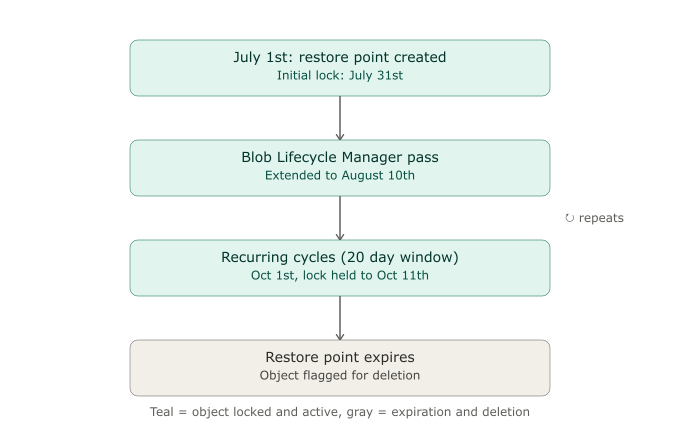
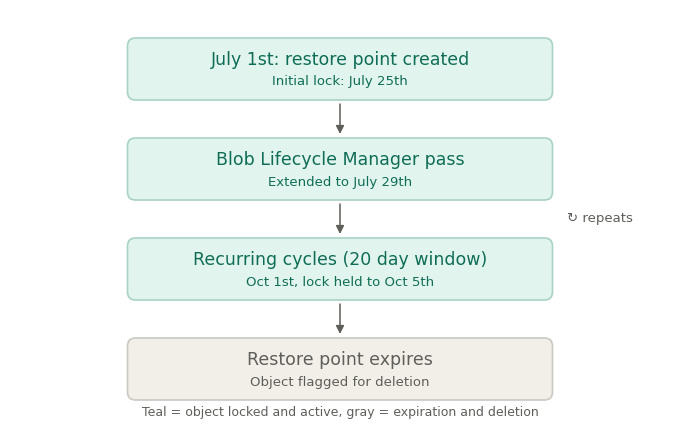
Clarify immutability article: profile-level protection period, 4 day example
Two customer feedback points on the retention vs. protection period post:

- The 10 day example made the initial lock 10 + 20 = 30 days, which reads
  like "one month" and suggests the lock is derived from the monthly
  retention tier. Switched the worked example to 4 days (24 day initial
  lock, matching no retention frequency) and added a note naming the trap.
  Regenerated the timeline diagram with the new dates.

- Readers could infer that the retention lock is set per restore point
  class. Added a "Where each setting lives" section with a policy vs.
  location profile table, a new FAQ on per-class protection periods, and
  reinforced throughout that the protection period is a single flat value
  on the profile.

diff --git a/_posts/2026-07-06-kasten-immutability-protection-period.md b/_posts/2026-07-06-kasten-immutability-protection-period.md
@@ -1,7 +1,7 @@
 ---
 layout: post
 title: "Understanding Kasten immutability: retention vs. protection period"
-description: "Two concepts people constantly conflate — the retention of a restore point and its immutability protection period — and how the Blob Lifecycle Manager keeps your backups locked for exactly as long as they need to be."
+description: "Two concepts people constantly conflate — the retention of a restore point, set in the policy, and the immutability protection period, set on the location profile — and how the Blob Lifecycle Manager keeps your backups locked for exactly as long as they need to be."
 date: 2026-07-06 09:00:00 +0200
 author: clarencepouthier-michaelcourcy
 image: '/images/posts/2026-07-06-kasten-immutability-protection-period/immutability.png'
@@ -17,13 +17,27 @@ When immutability comes up with a customer, one question always follows: *"how l
 
 It is worth being precise from the start, because these two settings look similar but answer completely different questions.
 
-- **Retention** is defined in your Kasten policy. It decides *how long a restore point stays alive* — how many daily, weekly, or monthly restore points Kasten keeps before letting them expire. This is a data-lifecycle decision: "I want 7 daily and 3 monthly restore points."
+- **Retention** is defined in your Kasten **policy**. It decides *how long a restore point stays alive* — how many daily, weekly, or monthly restore points Kasten keeps before letting them expire. This is a data-lifecycle decision: "I want 7 daily and 3 monthly restore points."
 
-- **Immutability (the protection period)** is a property enforced on the underlying storage through **S3 Object Lock** or **Azure Blob** immutability. It does not decide how long a restore point lives. It decides *how long the objects stay locked against deletion or tampering* — including how long you can still recover a restore point after it has been deleted locally and flagged as deleted on the object store.
+- **Immutability (the protection period)** is defined on the **location profile** — the object storage configuration — and enforced on the underlying storage through **S3 Object Lock** or **Azure Blob** immutability. It does not decide how long a restore point lives. It decides *how long the objects stay locked against deletion or tampering* — including how long you can still recover a restore point after it has been deleted locally and flagged as deleted on the object store.
 
 In other words: retention answers *"how far back can I restore?"*, while the protection period answers *"how long do I have to react if something goes wrong before my backups become exposed again?"*
 
 Kasten relies on the object-lock capability of the object storage (S3 Object Lock, Azure Blob immutability) to enforce this. As long as the lock is in place, nobody — not an attacker, not a compromised admin account, not Kasten itself — can delete or overwrite the object.
+
+## Where each setting lives — and why it matters
+
+This is the part that trips up most readers, so it is worth stating bluntly:
+
+| | Retention | Protection period (immutability) |
+|---|---|---|
+| Configured in | The **policy** | The **location profile** (S3 / Azure Blob configuration) |
+| Granularity | Per policy, per restore point class (hourly / daily / weekly / monthly / yearly) | One single value for the whole profile |
+| Answers | How far back can I restore? | How long do I have to react to a compromise? |
+
+Because the protection period lives on the location profile, **it is a single value that applies to every object written to that profile**. There is no such thing as "a monthly restore point gets a one-month lock and a daily restore point gets a one-day lock." A monthly restore point and a daily restore point exported to the same profile carry **exactly the same protection period**, because that number is a property of the target storage, not of the restore point's class in the retention schedule.
+
+The two settings are not just independent — they are configured in two different objects, by two different mechanisms. Retention is a *tiered* schedule; the protection period is a *flat* value. If you genuinely need two different protection periods, the only way to get them is two different location profiles (typically two buckets with different Object Lock defaults) and two policies pointing at them — not a retention tier.
 
 ## Starting point: the business requirement
 
@@ -33,13 +47,15 @@ Take a concrete case. A customer states the following requirement:
 - 7 day retention for daily backups, 3 month retention for monthly backups
 - immutability across all of these restore points
 
+Note that the first two bullets are policy settings, and the third one is a location profile setting. The daily and the monthly restore points do not get their own protection periods: they share the one configured on the profile they are exported to.
+
 Technically, this requirement can be satisfied with a protection period of just **1 day**. This is the point that usually surprises technical teams on the customer side, who tend to think in terms of "total immutability duration" rather than "detection window."
 
 ## What the protection period actually does
 
 The protection period should not be read as *"how long are my backups locked."* It should be read as *"how long do I have to detect a compromise before my backups become exposed again."*
 
-With a 10 day protection period, this means concretely: you have **10 days to detect an attack and initiate a recovery** before your backups could become vulnerable.
+With a 4 day protection period, this means concretely: you have **4 days to detect an attack and initiate a recovery** before your backups could become vulnerable.
 
 The reason a 1 day protection period can still satisfy a 3 month retention requirement is the mechanism described next: as long as a restore point is alive, the objects behind it keep having their lock renewed automatically.
 
@@ -51,12 +67,16 @@ This service guarantees it will inspect, and extend if necessary, every object i
 
 ## Walking through a concrete example
 
-Take a monthly restore point created on **July 1st**, with a protection period set to **10 days**.
+Take a monthly restore point created on **July 1st**, with a protection period set to **4 days** on the location profile.
 
-1. **Initial write (July 1st)**: the objects referenced by this restore point immediately receive a retention lock set 30 days out — 10 days of protection plus 20 days of BLM cycle margin. The initial lock date is therefore **July 31st**.
-2. **BLM pass (before July 31st)**: the service guarantees that, before this deadline, it will have re-inspected the objects and extended their retention to at least 10 more days from the date of that pass, so **August 10th**.
-3. **Following cycles**: this mechanism repeats throughout the lifetime of the restore point. So by October 1st, the associated objects will still carry a retention lock guaranteeing at least 10 more days, so **October 11th**.
+1. **Initial write (July 1st)**: the objects referenced by this restore point immediately receive a retention lock set 24 days out — 4 days of protection plus 20 days of BLM cycle margin. The initial lock date is therefore **July 25th**.
+2. **BLM pass (before July 25th)**: the service guarantees that, before this deadline, it will have re-inspected the objects and extended their retention to at least 4 more days from the date of that pass, so **July 29th**.
+3. **Following cycles**: this mechanism repeats throughout the lifetime of the restore point. So by October 1st, the associated objects will still carry a retention lock guaranteeing at least 4 more days, so **October 5th**.
 4. **Restore point expiration**: once the restore point expires, and provided the objects are not referenced by any other restore point, they stop receiving retention extensions and are flagged for deletion.
+
+The restore point in this example is a *monthly* one, but nothing in the calculation above depends on that. Run the same walkthrough for a daily restore point written to the same profile and you get the same 4 + 20 lock, the same extensions, the same dates. The only thing the "monthly" label changes is *when the restore point expires* — step 4 — because that comes from the retention schedule in the policy.
+
+> **A note on the numbers.** We deliberately picked 4 days rather than a rounder value. With a 10 day protection period the initial lock lands at 10 + 20 = 30 days, which looks a lot like "one month" and invites the wrong conclusion — that the lock is somehow derived from the monthly retention tier. It is not. The 20 days come from the BLM cycle guarantee and nothing else. Using 4 days makes the initial lock 24 days, which maps to no retention frequency at all, and the arithmetic stays unambiguous.
 
 ## Illustrative diagram
 
@@ -66,11 +86,14 @@ Take a monthly restore point created on **July 1st**, with a protection period s
 
 This logic has a direct impact on sizing: **there is no need to match the protection period to the business retention duration.** A 3 month retention policy does not require a 3 month protection period. The protection period only sizes the detection and response window in case of compromise, while the BLM keeps immutability continuous for as long as the restore point stays active.
 
+And since the protection period is a single value on the location profile, there is nothing to size *per restore point class* either. You size one number, once, per profile: the detection window you are willing to accept for everything landing in that bucket.
+
 This is an important technical talking point in pre-sales, because it reassures a customer on two fronts at once: **compliance** (objects stay locked for as long as they are referenced) and **operational efficiency** (no unnecessary over-sizing of the protection period).
 
 ## Summary
 
-- **Retention** (set in the policy) decides how long a restore point lives; **immutability / protection period** (enforced via object lock) decides how long the objects stay locked — the two are independent settings.
+- **Retention** (set in the **policy**) decides how long a restore point lives; **immutability / protection period** (set on the **location profile**, enforced via object lock) decides how long the objects stay locked — two independent settings, configured in two different places.
+- The protection period is a **single flat value per location profile**. Daily, weekly and monthly restore points written to the same profile all carry the same lock duration; the lock is never derived from the retention tier.
 - The protection period defines a **detection window**, not a total immutability duration.
 - The Blob Lifecycle Manager guarantees a pass over every object within a 20 day window, hence the **"protection + 20 days"** formula for the initial lock.
 - Every referenced object keeps having its retention extended until the restore point that references it expires.
@@ -80,9 +103,17 @@ This mechanism allows for robust immutability without oversized protection perio
 
 ## Frequently asked questions
 
-### Why is the initial retention 30 days in this example?
+### Can I set a different protection period for my monthly and my daily restore points?
 
-Because the initial retention always follows this formula: protection period + 20 days of margin tied to the Blob Lifecycle Manager cycle. In this example, the configured protection period is 10 days. The BLM guarantees it will inspect, and extend if necessary, every object in the repository within a 20 day window. Kasten cannot set the retention to just 10 days, otherwise an object could lose its immutability before the BLM even gets a chance to check it. Hence the calculation: 10 (protection) + 20 (BLM margin) = 30 days, giving an initial lock of July 31st for a restore point created on July 1st. This 20 day margin is not usable retention, it is a safety buffer that guarantees the BLM will always have time to run its pass and renew protection before the initial deadline.
+Not within a single location profile. The protection period is a property of the profile — the S3 or Azure Blob configuration — not of the policy and not of the retention tier. Every object written to that profile gets the same lock duration, whether it backs a daily, weekly, monthly or yearly restore point.
+
+If you really need two protection periods, you need **two location profiles** — in practice two buckets or containers with their own Object Lock settings — and two policies, each exporting to its own profile. That is an infrastructure decision, not a retention-schedule tweak.
+
+### Why is the initial retention 24 days in this example?
+
+Because the initial retention always follows this formula: protection period + 20 days of margin tied to the Blob Lifecycle Manager cycle. In this example, the configured protection period is 4 days. The BLM guarantees it will inspect, and extend if necessary, every object in the repository within a 20 day window. Kasten cannot set the retention to just 4 days, otherwise an object could lose its immutability before the BLM even gets a chance to check it. Hence the calculation: 4 (protection) + 20 (BLM margin) = 24 days, giving an initial lock of July 25th for a restore point created on July 1st. This 20 day margin is not usable retention, it is a safety buffer that guarantees the BLM will always have time to run its pass and renew protection before the initial deadline.
+
+Note that the 20 days are a constant of the BLM, not something derived from your policy. If the protection period were 10 days the initial lock would be 30 days — which happens to look like "one month" and is a classic source of confusion. That 30 is 10 + 20, not a monthly retention tier leaking into the lock calculation.
 
 ### How does the Blob Lifecycle Manager detect which objects to extend?
 
@@ -97,11 +128,11 @@ This background service monitors repositories that hold immutable backups, and e
 
 The mechanism simply keeps repeating, indefinitely, for as long as the restore point stays active. Each time the BLM runs its pass, it checks whether the object is still referenced by an active restore point. If so, it extends the retention by at least the configured protection period, starting from the date of that pass. Since the BLM guarantees a pass over every object within a 20 day window, the effective retention of an object that is still referenced never drops below the protection period, no matter how many cycles have already run.
 
-Take the example of a restore point created on July 1st with a 10 day protection period:
+Take the example of a restore point created on July 1st with a 4 day protection period:
 
-- Initial lock: July 31st (10 + 20)
-- 1st BLM pass (before July 31st): extended to August 10th
-- 2nd BLM pass (before August 10th): extended again, another 10 days from that pass
+- Initial lock: July 25th (4 + 20)
+- 1st BLM pass (before July 25th): extended to July 29th
+- 2nd BLM pass (before July 29th): extended again, another 4 days from that pass
 - and so on, cycle after cycle
 
 There is no ceiling and no degradation of the mechanism. A restore point kept for 6 months, 2 years, or 5 years will keep being extended in exactly the same way, for as long as it stays referenced. What changes is not the mechanism itself, but the total duration the object stays protected, which becomes directly tied to the lifetime of the restore point.
